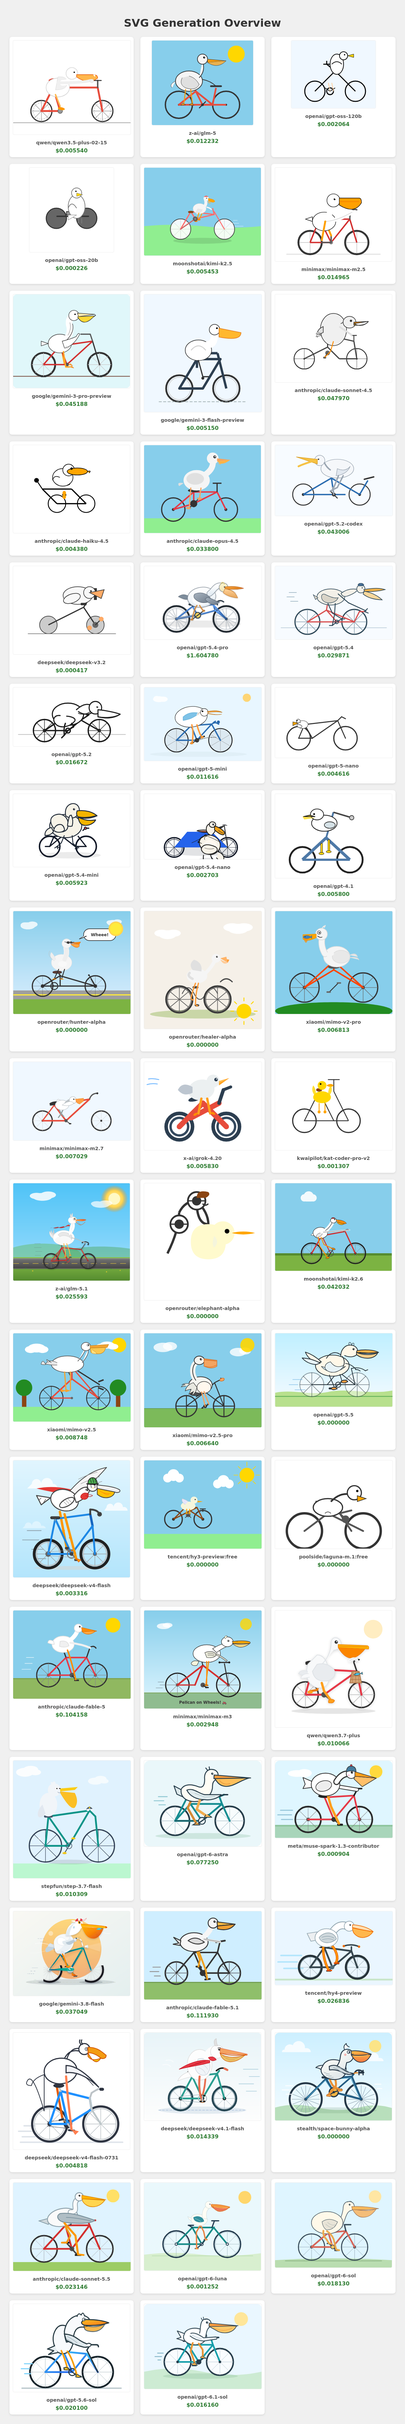
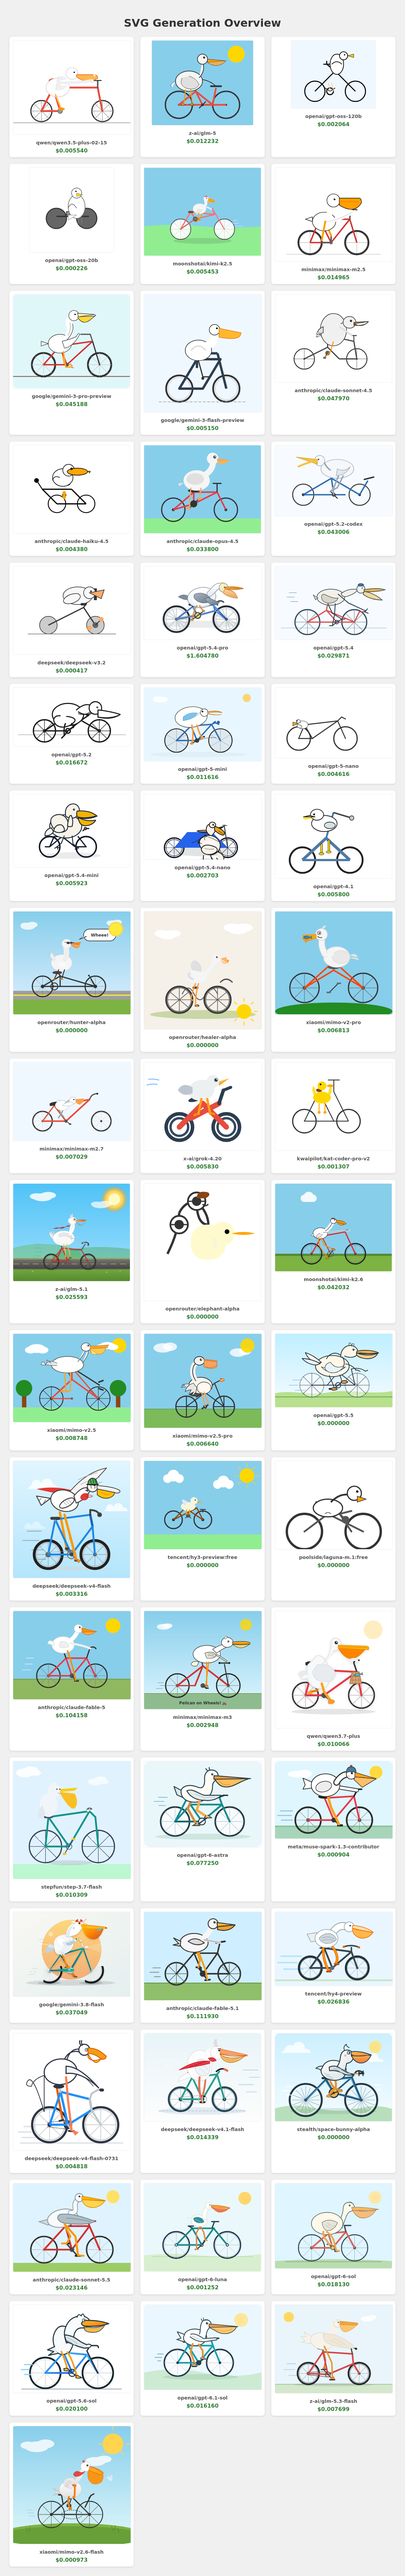
glm and mimi flash

diff --git a/svg_outputs/overview.html b/svg_outputs/overview.html
@@ -335,6 +335,18 @@
                     <div class="cost ">$0.016160</div>
                 </div>
                 
+                <div class="card">
+                    <img src="z-ai_glm-5-3-flash.svg" alt="z-ai/glm-5.3-flash">
+                    <div class="model-name">z-ai/glm-5.3-flash</div>
+                    <div class="cost ">$0.007699</div>
+                </div>
+                
+                <div class="card">
+                    <img src="xiaomi_mimo-v2-6-flash.svg" alt="xiaomi/mimo-v2.6-flash">
+                    <div class="model-name">xiaomi/mimo-v2.6-flash</div>
+                    <div class="cost ">$0.000973</div>
+                </div>
+                
         </div>
     </body>
     </html>

diff --git a/pelicanTest.js b/pelicanTest.js
@@ -67,7 +67,9 @@ const MODELS = [
     'openai/gpt-6-luna',
     'openai/gpt-6-sol',
     'openai/gpt-5.6-sol',
-    'openai/gpt-6.1-sol'
+    'openai/gpt-6.1-sol',
+    'z-ai/glm-5.3-flash',
+    'xiaomi/mimo-v2.6-flash'
 
 ];
 
